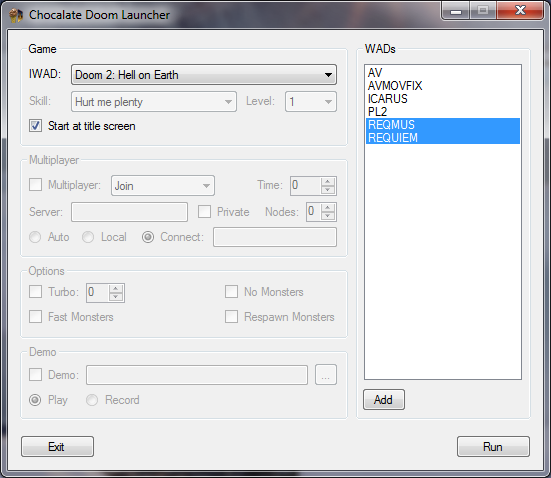
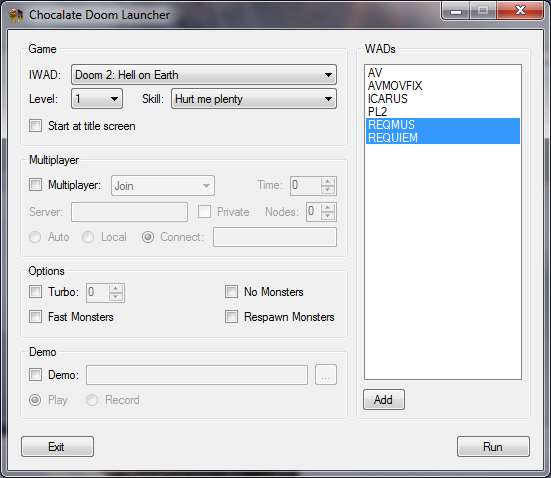
Final tweaks for 1.1 release.

diff --git a/Source/MainForm.Designer.cs b/Source/MainForm.Designer.cs
@@ -136,7 +136,7 @@ namespace ChocolateDoomLauncher
             // 
             this.comboBoxLevel.DropDownStyle = System.Windows.Forms.ComboBoxStyle.DropDownList;
             this.comboBoxLevel.FormattingEnabled = true;
-            this.comboBoxLevel.Location = new System.Drawing.Point(45, 46);
+            this.comboBoxLevel.Location = new System.Drawing.Point(51, 46);
             this.comboBoxLevel.Name = "comboBoxLevel";
             this.comboBoxLevel.Size = new System.Drawing.Size(52, 21);
             this.comboBoxLevel.TabIndex = 5;
@@ -164,9 +164,9 @@ namespace ChocolateDoomLauncher
             // 
             this.comboBoxIWAD.DropDownStyle = System.Windows.Forms.ComboBoxStyle.DropDownList;
             this.comboBoxIWAD.FormattingEnabled = true;
-            this.comboBoxIWAD.Location = new System.Drawing.Point(45, 22);
+            this.comboBoxIWAD.Location = new System.Drawing.Point(51, 22);
             this.comboBoxIWAD.Name = "comboBoxIWAD";
-            this.comboBoxIWAD.Size = new System.Drawing.Size(272, 21);
+            this.comboBoxIWAD.Size = new System.Drawing.Size(266, 21);
             this.comboBoxIWAD.TabIndex = 4;
             this.comboBoxIWAD.SelectedIndexChanged += new System.EventHandler(this.comboBoxIWAD_SelectedIndexChanged);
             // 

diff --git a/Source/MainForm.cs b/Source/MainForm.cs
@@ -92,7 +92,7 @@ namespace ChocolateDoomLauncher
                         wads.Rows.Add("Hexen: Beyond Heretic", wad, true);
                         break;
                     case "strife1.wad":
-                        wads.Rows.Add("Strife", wad, true);
+                        wads.Rows.Add("Strife: Quest for the Sigil", wad, true);
                         break;
                     case "voices.wad":
                     case "zdoom.wad":
@@ -102,7 +102,7 @@ namespace ChocolateDoomLauncher
                         break;
                 }
             }
-            
+
             // Sort datatable
             DataView dataView = wads.DefaultView;
             dataView.Sort = "File";
@@ -225,7 +225,7 @@ namespace ChocolateDoomLauncher
             {
                 comboBoxSkill.SelectedIndex = Game.Skill - 1;
             }
-            
+
             comboBoxSkill.SelectedIndexChanged += new EventHandler(comboBoxSkill_SelectedIndexChanged);
         }
 

diff --git a/Source/Properties/AssemblyInfo.cs b/Source/Properties/AssemblyInfo.cs
@@ -32,5 +32,5 @@ using System.Runtime.InteropServices;
 // You can specify all the values or you can default the Build and Revision Numbers 
 // by using the '*' as shown below:
 // [assembly: AssemblyVersion("1.0.*")]
-[assembly: AssemblyVersion("1.0.0.0")]
-[assembly: AssemblyFileVersion("1.0.0.0")]
+[assembly: AssemblyVersion("1.1.0.0")]
+[assembly: AssemblyFileVersion("1.1.0.0")]

diff --git a/Source/Game.cs b/Source/Game.cs
@@ -187,7 +187,7 @@ namespace ChocolateDoomLauncher
                         hexClass = 0;
                         skill = 3;
                         bin = "chocolate-hexen.exe";
-                        break;                    
+                        break;
                     case "strife1.wad":
                         episodes = 0;
                         maps = 31;

diff --git a/Source/Program.cs b/Source/Program.cs
@@ -31,7 +31,7 @@ namespace ChocolateDoomLauncher
         /// </summary>
         [STAThread]
         static void Main()
-        {            
+        {
             Application.EnableVisualStyles();
             Application.SetCompatibleTextRenderingDefault(false);
             Application.Run(new MainForm());

diff --git a/README.md b/README.md
@@ -8,13 +8,13 @@ and the Doom 95 launcher.
 Features
 ========
 - Clean and simple interface.
-- Manages all IWADs in a single folder just like the Doom 95 launcher.
+- Manages all IWADs in a single folder.
 - Multi-player settings.
 - Select skills and maps.
 - Select multiple PWADs.
 - Detect and apply DeHackEd patches, based on giving PWAD file name.
 - Save / Open .lmp files to play or record demos.
-- Heretic support.
+- Chex Quest, Heretic, Hexen and Strife support.
 - Option to load to title screen.
 - Add WAD files from folders.
 
@@ -24,14 +24,16 @@ Features
 
 ![Screenshot](https://raw.githubusercontent.com/mylesthaiss/Chocolate-Doom-Launcher/master/Screenshots/Record_Demo.png)
 
+![Screenshot](https://raw.githubusercontent.com/mylesthaiss/Chocolate-Doom-Launcher/master/Screenshots/Hexen.png)
+
 Requirements
 ============
-- Chocolate Doom or Chocolate Heretic binaries.
-- A Doom IWAD file such as "doom1.wad" or "doom2.wad".
+- Chocolate Doom binaries for Doom, Heretic, Hexen, etc.
+- A IWAD file such as "doom1.wad" or "doom2.wad".
 - Microsoft .NET Runtime.
 
 Install
 =======
 Extract the downloaded file and then copy "chocolate-doom-launcher.exe" onto on a folder that contains 
-the Chocolate Doom executables. At start-up the launcher will always check for IWADs on its current folder, 
+Chocolate Doom executables. At start-up the launcher will always check for IWADs on its current folder, 
 however the launcher will use search for WADs on the last opened folder as well.
